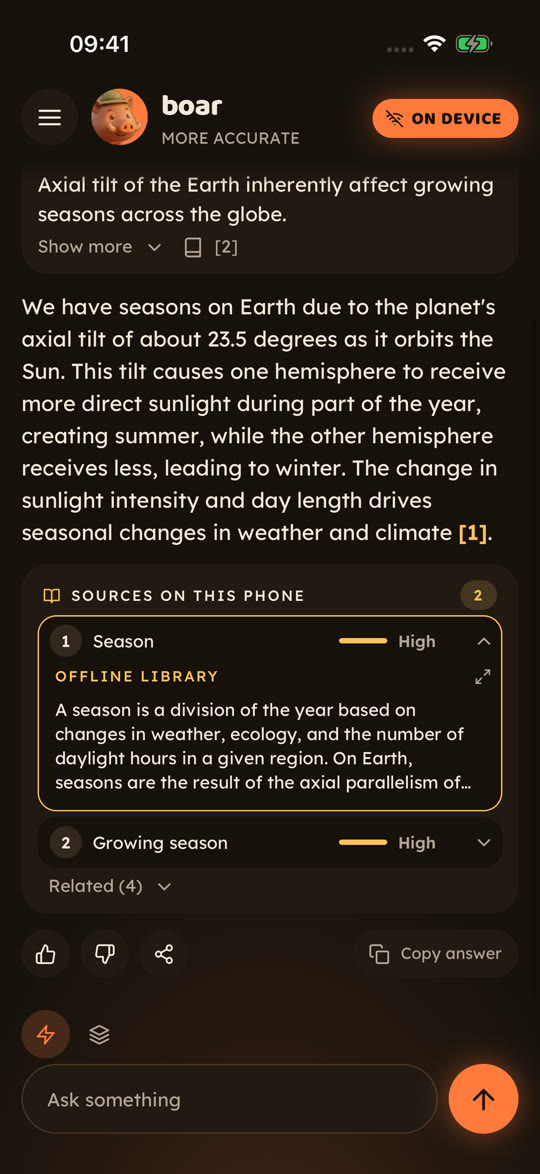
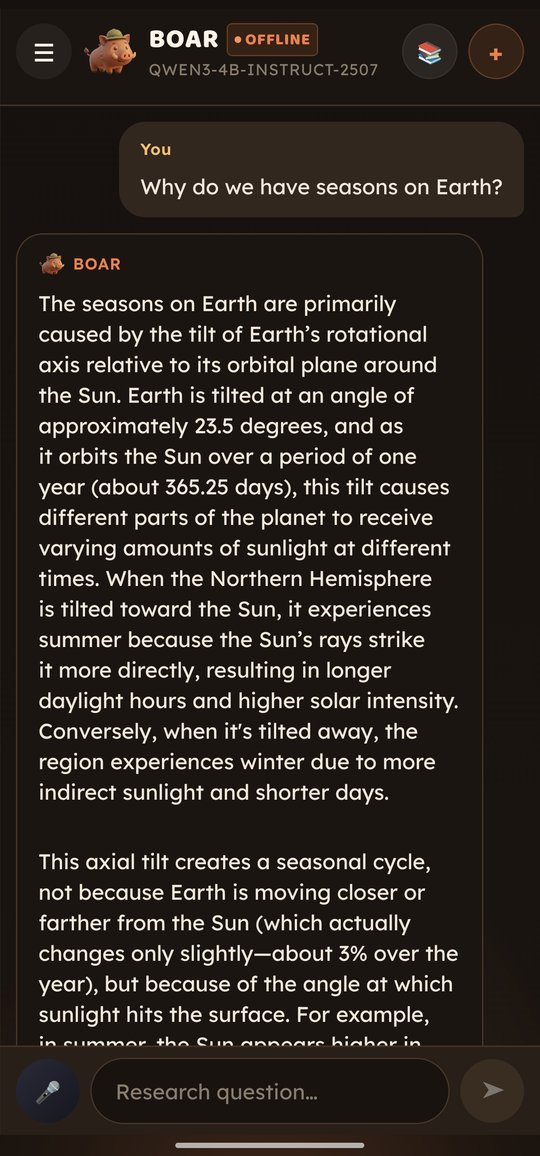
docs: README screenshots from the Android app (X6 Pro)
The three screenshots under "Why" now come from the Android app: an answer,
an answer in airplane mode with the OFFLINE pill, and the menu. Places has no
Android screen yet, so its slot shows the offline answer; the captions follow.
The setup screenshots and the hero GIF are still from the iPhone app.

diff --git a/README.md b/README.md
@@ -45,17 +45,17 @@ a phone can get. Full reasoning: [MANIFESTO.md](MANIFESTO.md).
 <table>
 <tr>
 <td width="33%"><img src="docs/readme/answers-sources.jpg" alt="An answer with its sources on the phone"></td>
-<td width="33%"><img src="docs/readme/places.jpg" alt="Vegan restaurants in Berlin from OpenStreetMap, offline"></td>
-<td width="33%"><img src="docs/readme/knowledge.jpg" alt="Knowledge packs stored on the phone"></td>
+<td width="33%"><img src="docs/readme/offline.jpg" alt="An answer in airplane mode, with the OFFLINE pill in the header"></td>
+<td width="33%"><img src="docs/readme/drawer.jpg" alt="The menu: research sessions, documents and settings, with live RAM and disk use"></td>
 </tr>
 <tr>
 <td><b>Answers with sources.</b> Tap a citation to read the exact passage.</td>
-<td><b>Places near you.</b> Distance and opening hours from OpenStreetMap, in airplane mode.</td>
-<td><b>Knowledge you choose.</b> Topic packs, Wikipedia, or your own files.</td>
+<td><b>Works in airplane mode.</b> The header says OFFLINE, and the answer still comes.</td>
+<td><b>Everything stays on the phone.</b> Your sessions and documents, with RAM and disk shown live.</td>
 </tr>
 </table>
 
-**Android first.** `main` is the Android app: an APK you install yourself, with no Play Store or Google account needed. Search, packs, models, measurements and sharing are one shared engine; on top of it sits an app built for mid-range phones, in the Campfire and Moonlight themes (`src/ui-android`). The screenshots above are from the iPhone app, which is built from the same engine on the [`ios_android`](https://github.com/rferrari/boar-app/tree/ios_android) branch.
+**Android first.** `main` is the Android app: an APK you install yourself, with no Play Store or Google account needed. Search, packs, models, measurements and sharing are one shared engine; on top of it sits an app built for mid-range phones, in the Campfire and Moonlight themes (`src/ui-android`). The iPhone app is built from the same engine on the [`ios_android`](https://github.com/rferrari/boar-app/tree/ios_android) branch.
 
 ## Online once, offline from then on
 
